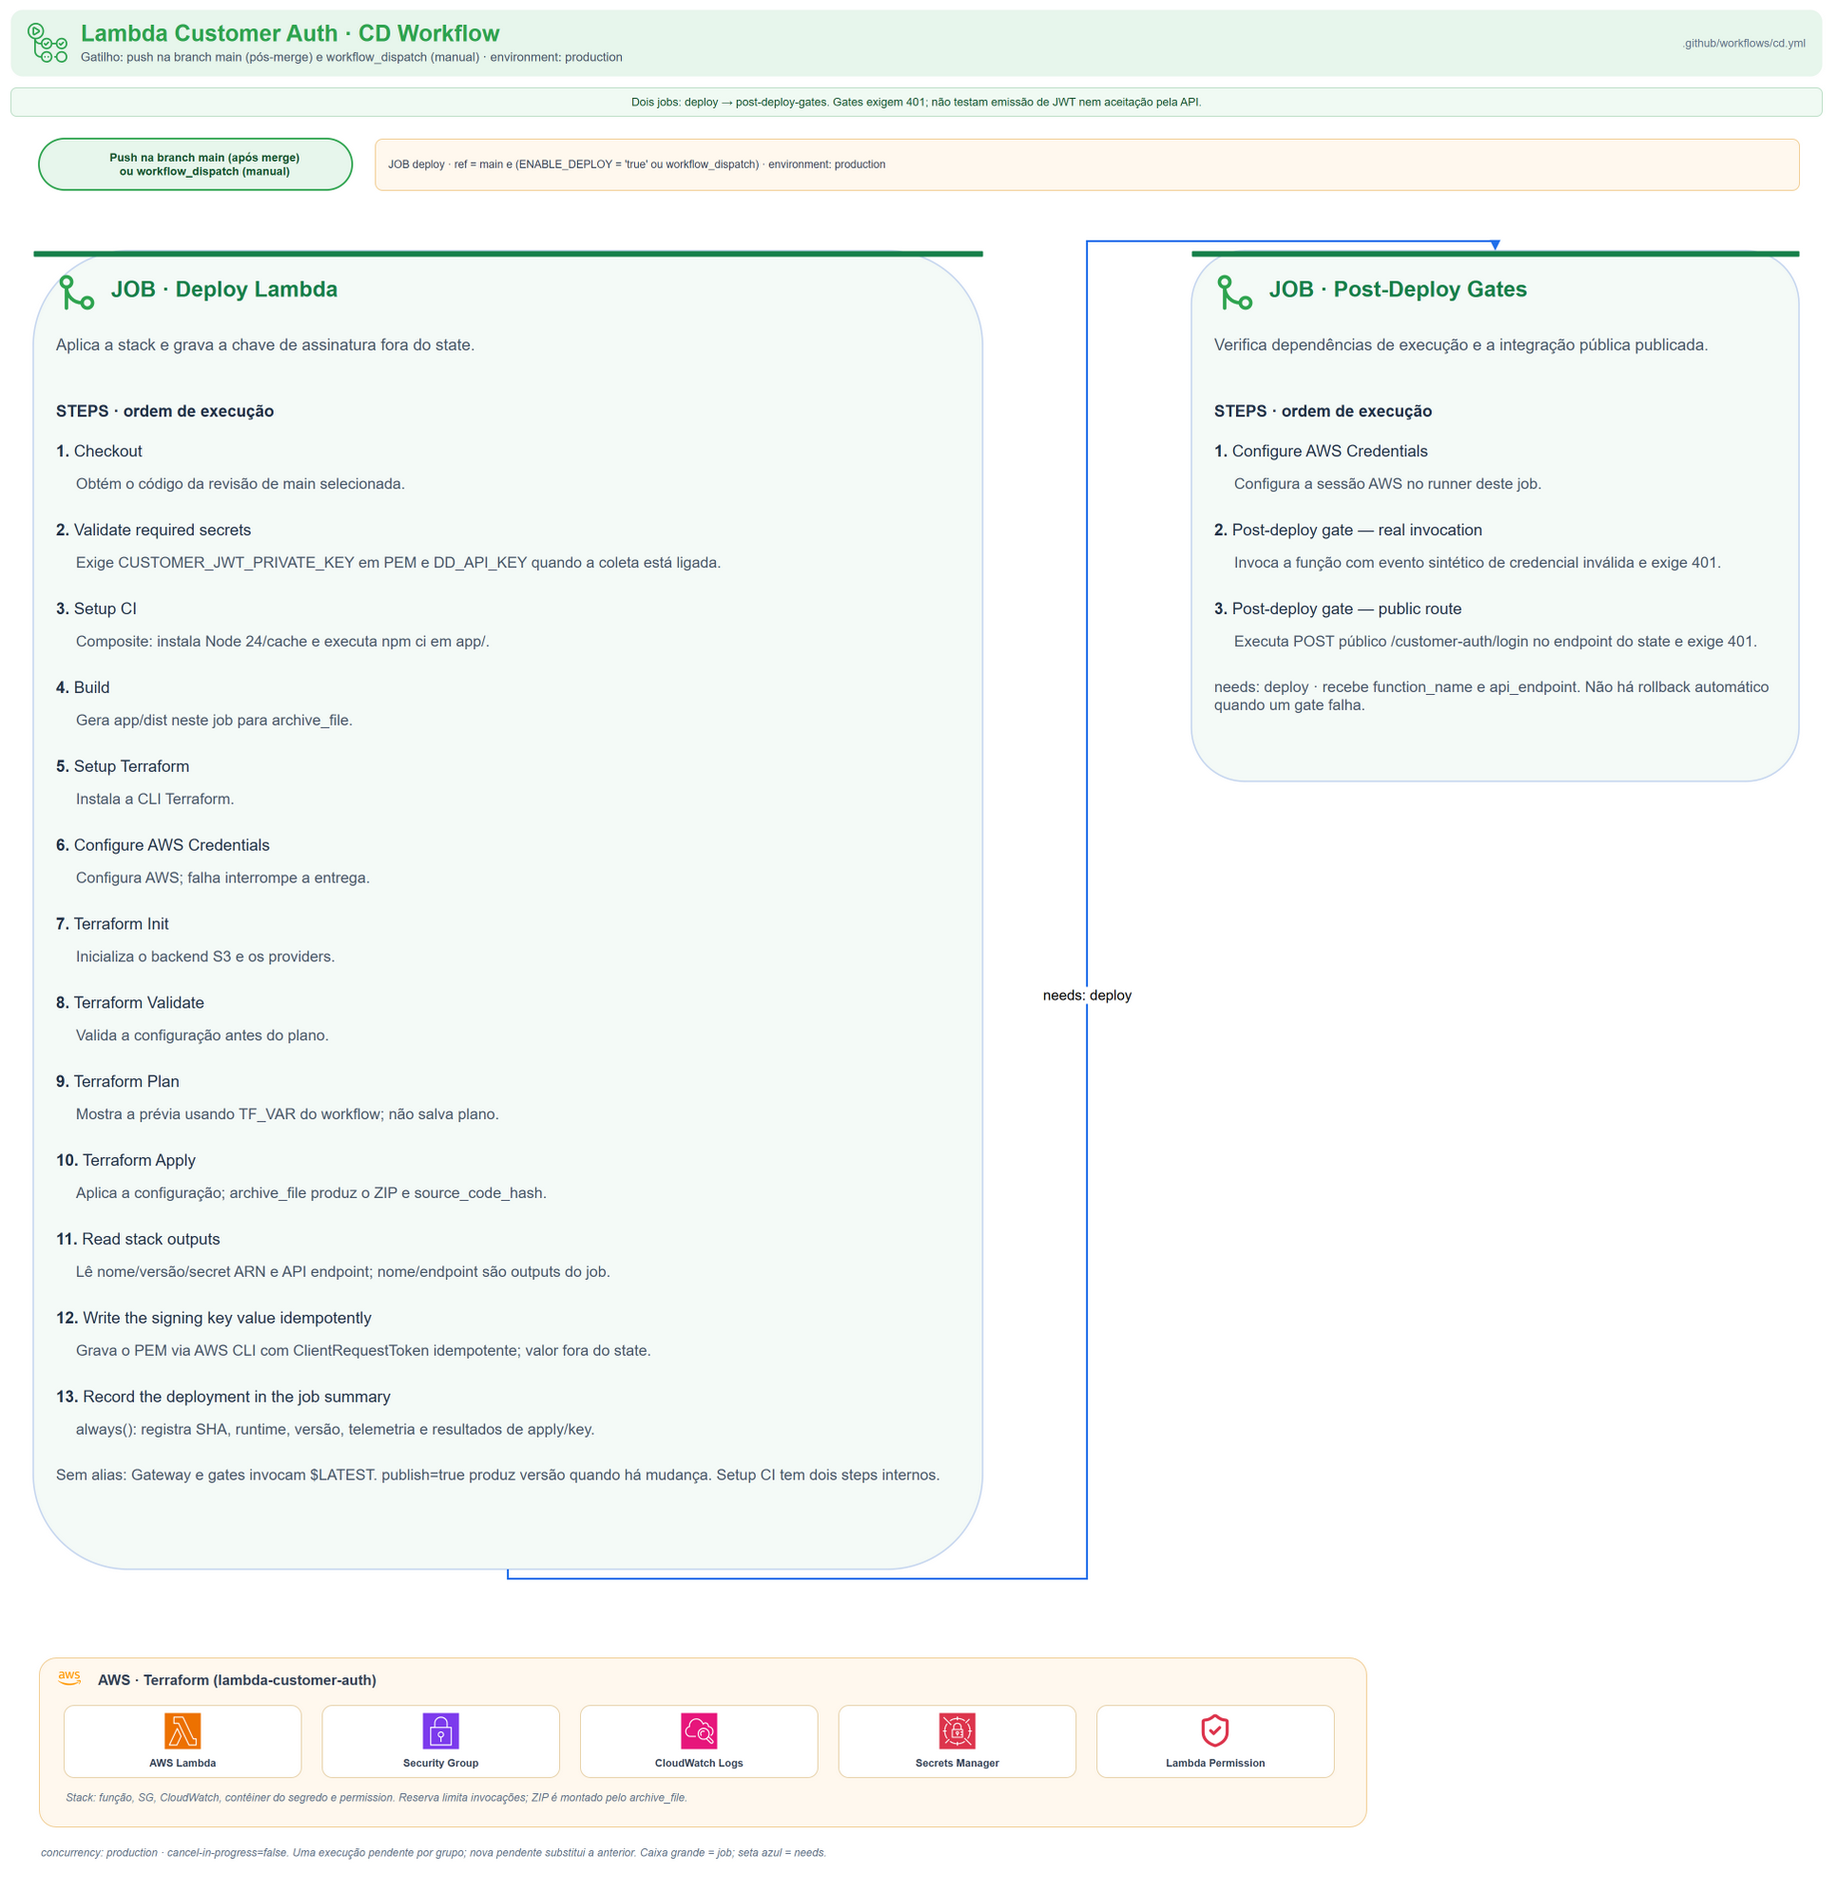
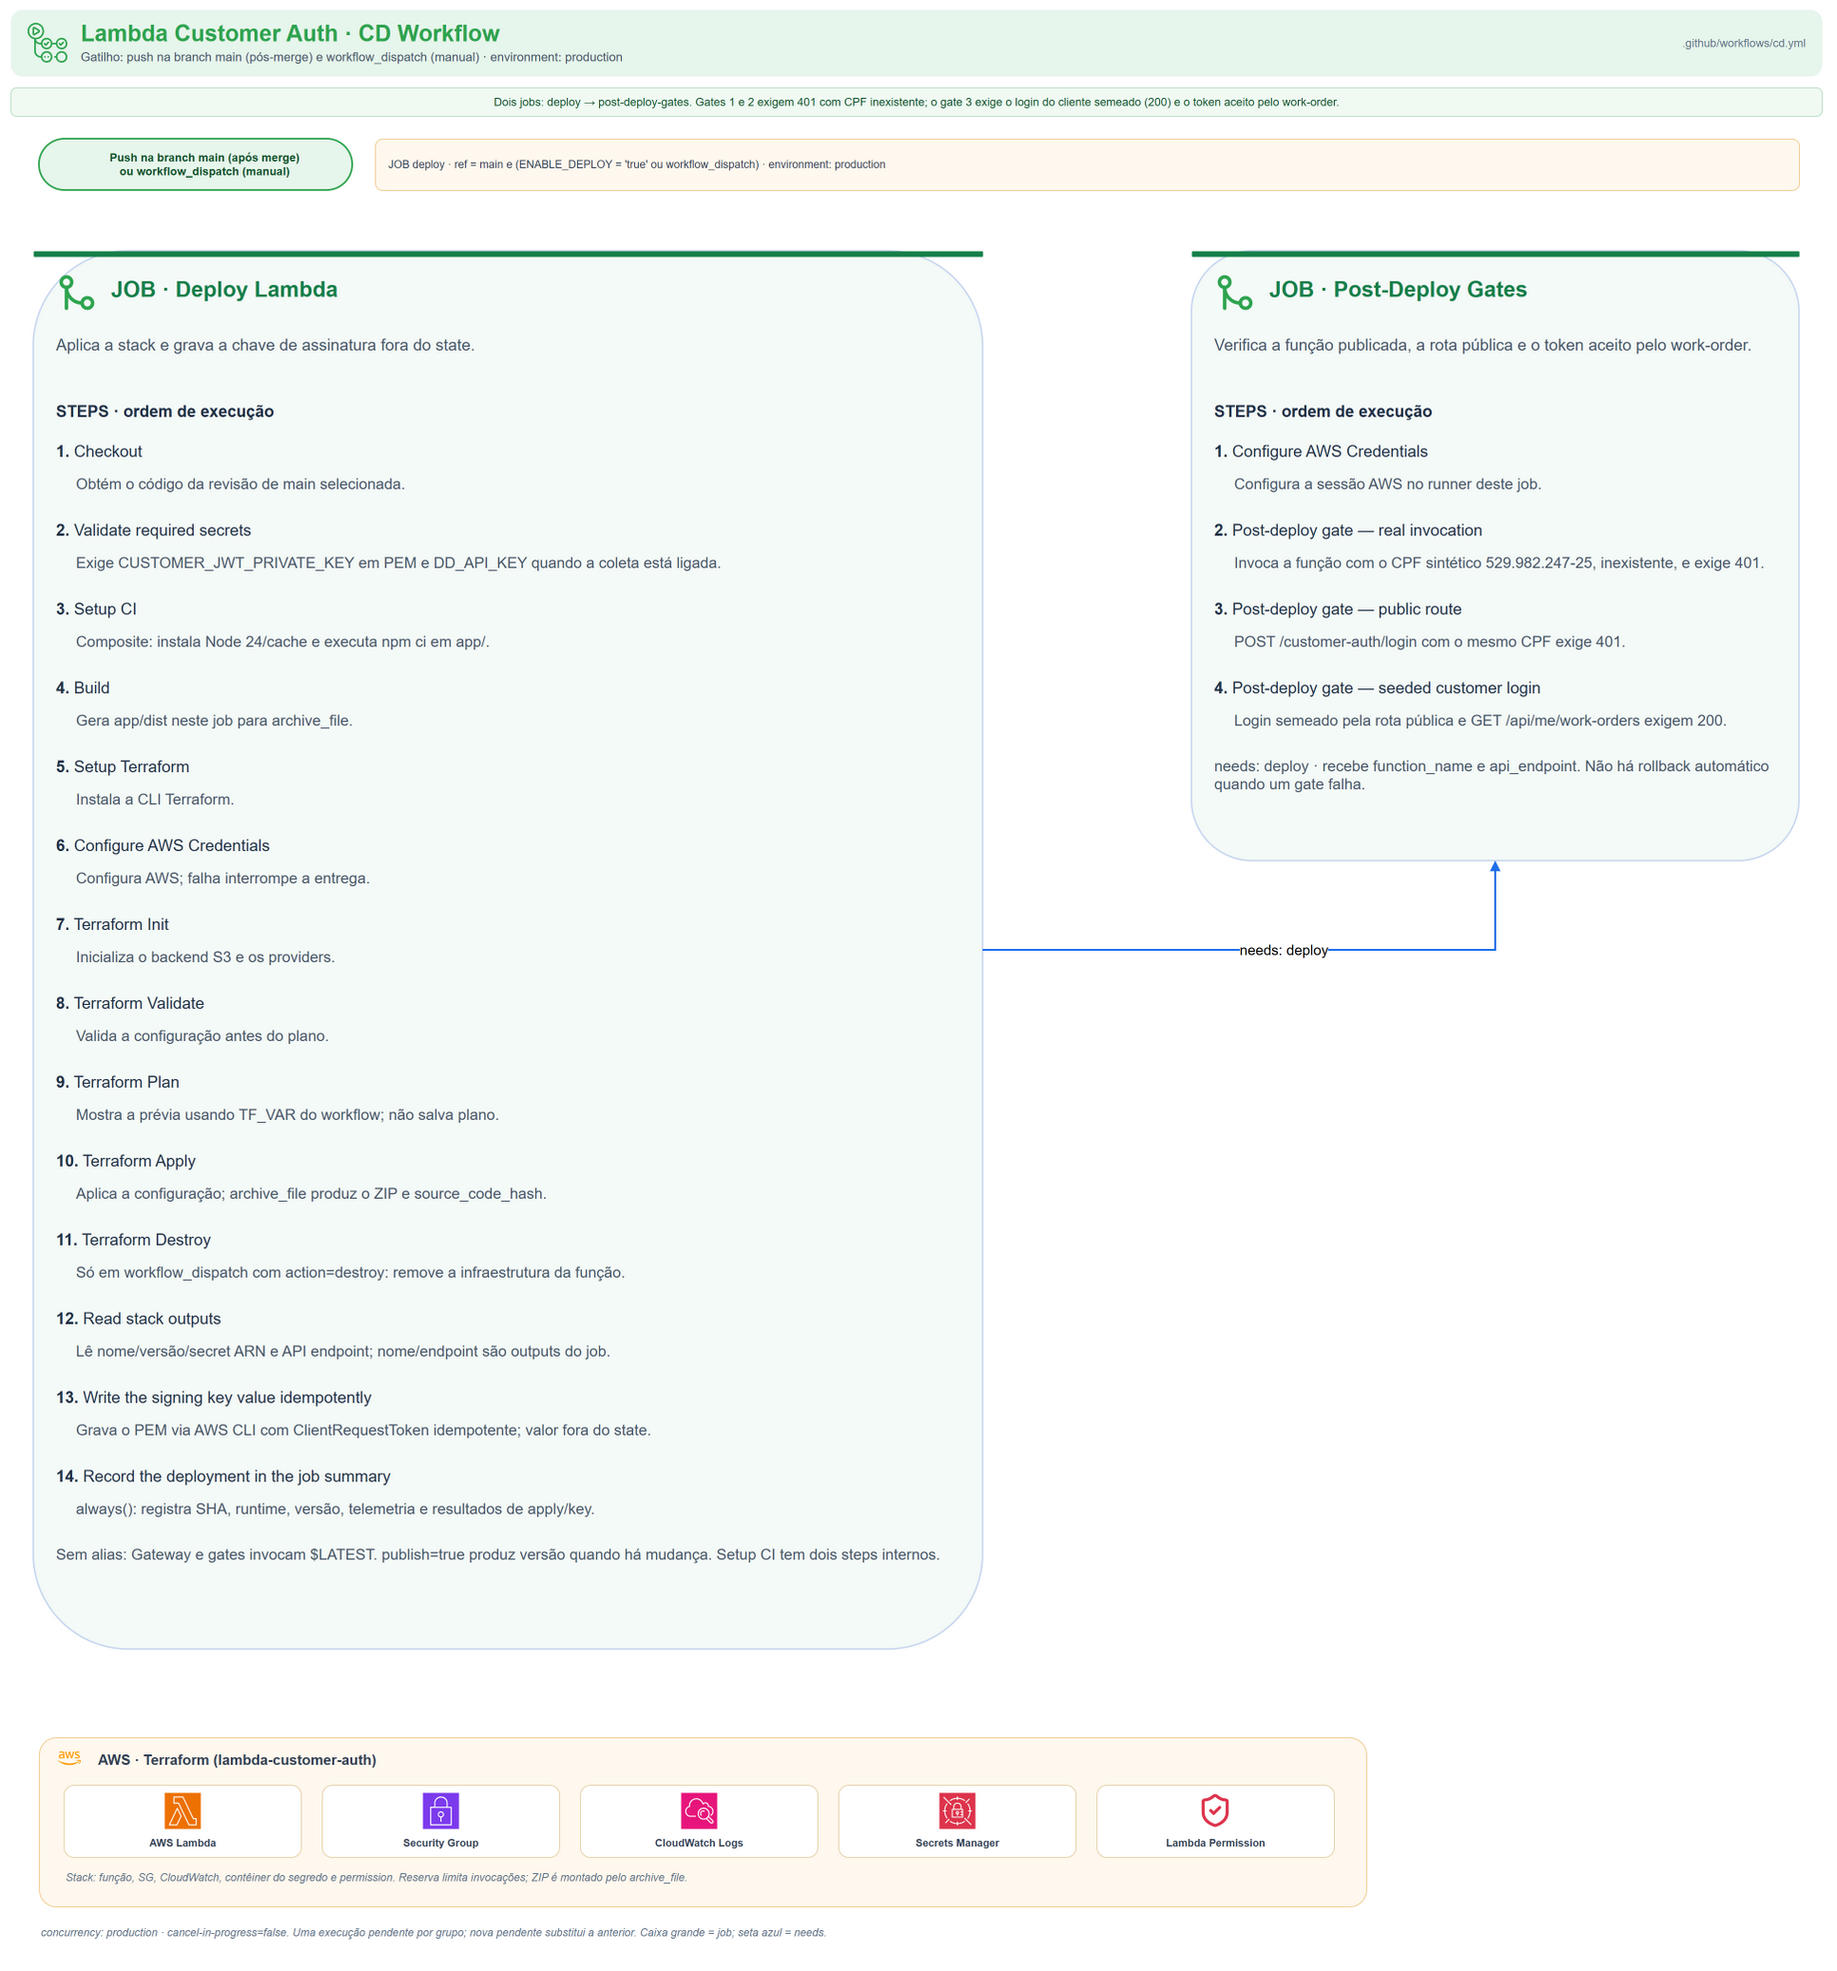
docs(diagrams): show owners behind NLB and three gates

diff --git a/docs/terraform.md b/docs/terraform.md
@@ -4,7 +4,7 @@ A stack desta função vive em `infra/`, no mesmo repositório do código: o que
 muda junto fica junto, e a configuração da função passa pelo mesmo ciclo de
 revisão que ela.
 
-![Arquitetura: API Gateway invoca a Lambda; ENIs Hyperplane permitem acesso privado ao RDS e ao NAT para Secrets Manager; logs no CloudWatch](diagrams/infrastructure.png)
+![Arquitetura: o API Gateway invoca a função Lambda, que executa nas subnets privadas da VPC; por interfaces de rede compartilhadas (ENIs Hyperplane) ela alcança o NLB interno do cluster Kubernetes, na porta 8081 para o Identity e 80 para o work-order, e, pelo NAT Gateway, o Secrets Manager; os logs vão para o CloudWatch Logs](diagrams/infrastructure.png)
 
 ## O que esta stack provisiona
 
@@ -19,7 +19,7 @@ revisão que ela.
 | Cluster Kubernetes e NLB interno (Network Load Balancer, o balanceador de rede que dá acesso aos serviços do cluster) | `oficina-mecanica-infra-k8s` | O endereço e as portas do NLB são consumidos por leitura de state remoto |
 | Identity (usuários e senhas) e work-order (clientes e vínculos) | os repositórios de cada serviço | A função só os chama, pelas rotas internas atrás do NLB |
 | API Gateway, rota e limitação de frequência | `oficina-mecanica-api-gateway` | A rota é publicada lá; esta stack apenas autoriza a invocação |
-| Bucket do state | compartilhado, pré-existente | Já existe e serve as seis stacks Terraform. **Esta acrescenta apenas uma chave** |
+| Bucket do state | compartilhado, pré-existente | Já existe e serve as stacks Terraform da solução. **Esta acrescenta apenas uma chave** |
 | Qualquer role de identidade | **ninguém** — o laboratório não permite criar roles | A role de execução é lida por fonte de dados, nunca criada |
 
 ## Estado remoto
@@ -51,7 +51,7 @@ O `backend.tf` não declara o bucket: os workflows passam
 variável de Actions da organização `TF_STATE_BUCKET`.
 
 Cifração em repouso e trava por arquivo de bloqueio no próprio armazenamento de
-objetos — as mesmas opções das outras cinco stacks, sem tabela auxiliar.
+objetos — as mesmas opções das demais stacks, sem tabela auxiliar.
 
 O arquivo de bloqueio de provedores (`.terraform.lock.hcl`) é versionado, como
 nas demais stacks da solução, e cobre `linux_amd64` — a esteira —, `windows_amd64`
@@ -163,7 +163,7 @@ forma idempotente, com identificador de requisição derivado do resumo
 criptográfico do material.
 
 Declarar o valor na infraestrutura o colocaria em texto puro no state, num bucket
-compartilhado pelas seis stacks Terraform. Quem tem a chave privada emite token para
+compartilhado pelas stacks Terraform da solução. Quem tem a chave privada emite token para
 qualquer cliente: é o material mais sensível da solução.
 
 Um ambiente novo só fica funcional depois de a entrega gravar o PEM — o que ela

diff --git a/docs/ci-cd.md b/docs/ci-cd.md
@@ -14,7 +14,9 @@ análise estática e entrega.
 
 ![CI Workflow: os seis jobs de validação — Lint, Type Check, Unit Tests, E2E
 Tests, Package e Terraform Validation — executam em paralelo a partir do push e
-convergem no job Open Pull Request, que abre o PR para main](diagrams/ci-workflow.png)
+convergem no job Open Pull Request, que abre o PR para main; o E2E Tests tem
+três steps: checkout, Setup CI e os testes contra stubs HTTP do Identity e do
+work-order](diagrams/ci-workflow.png)
 
 ## Integração contínua
 
@@ -202,7 +204,10 @@ aguarda o portão e reprova quando ele reprova.
 ## Entrega contínua
 
 ![CD Workflow: gatilho em push na main ou workflow_dispatch, portão de entrada
-por branch e interruptor, e os jobs Deploy Lambda (13 steps) e Post-Deploy Gates (3 steps), ligados por needs: deploy](diagrams/cd-workflow.png)
+por branch e interruptor, e os jobs Deploy Lambda (14 steps) e Post-Deploy Gates
+(4 steps: credenciais AWS e os três portões — invocação direta e rota pública
+com CPF inexistente, que exigem 401, e login do cliente semeado, que exige 200
+e o token aceito pelo work-order), ligados por needs: deploy](diagrams/cd-workflow.png)
 
 ### Portões de entrada
 

diff --git a/docs/architecture.md b/docs/architecture.md
@@ -283,10 +283,11 @@ O desenho acima descreve o código. Esta seção descreve onde ele executa.
 
 ![Diagrama de arquitetura: o cliente chama por HTTPS o API Gateway, que publica
 POST /customer-auth/login e invoca a função Lambda; a função executa nas duas
-subnets privadas da VPC 10.0.0.0/16, com security group próprio e interface de
-rede criada na partida a frio, alcança o Amazon RDS PostgreSQL 16 na porta 5432
-e o Secrets Manager pelo NAT Gateway, e emite log para o CloudWatch Logs com
-retenção de 14 dias](diagrams/infrastructure.png)
+subnets privadas da VPC 10.0.0.0/16, com security group próprio e interfaces de
+rede compartilhadas (ENIs Hyperplane), alcança pelo NLB interno do cluster
+Kubernetes o Identity na porta 8081 e o work-order na porta 80, lê a chave de
+assinatura no Secrets Manager pelo NAT Gateway e emite log para o CloudWatch
+Logs com retenção de 14 dias](diagrams/infrastructure.png)
 
 **Rede.** A função é anexada às subnets privadas da rede da solução, com grupo de
 segurança próprio, porque o NLB que dá acesso ao Identity e ao work-order é

diff --git a/docs/security.md b/docs/security.md
@@ -136,7 +136,7 @@ significa legível por quem tiver permissão de escrita.
 **O valor nunca transita pelo state da infraestrutura.** A stack declara o
 contêiner do segredo e não o seu valor; a entrega grava o valor de forma
 idempotente. Declará-lo na infraestrutura o colocaria em texto puro num bucket
-compartilhado pelas seis stacks Terraform.
+compartilhado pelas stacks Terraform da solução.
 
 A metade pública correspondente é configurada no ambiente do work-order e no
 seu Secret Kubernetes pelo CD dele; ela não precisa ser versionada para verificar
